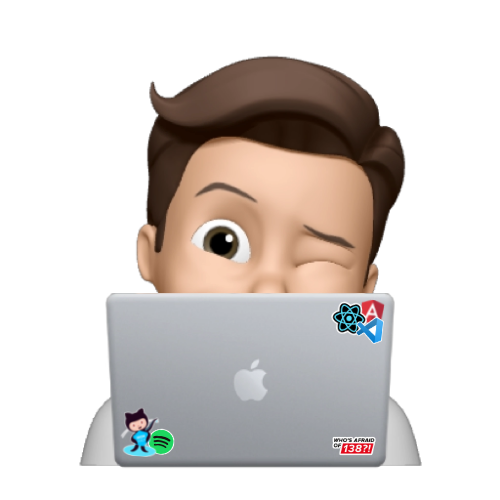
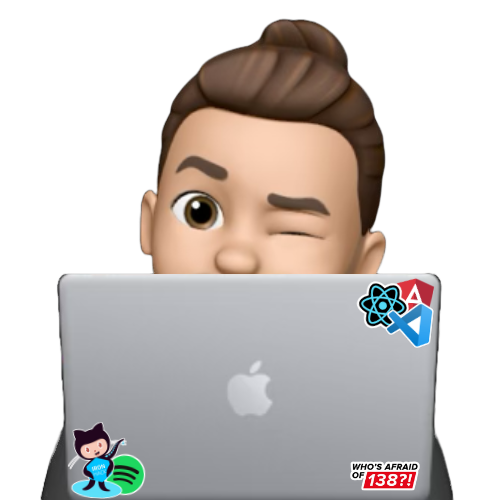
memoji update

diff --git a/components/About.js b/components/About.js
@@ -1,7 +1,9 @@
 import React, { Fragment } from "react";
+import Image from 'next/image'
 import router, { useRouter } from "next/router";
 import styled from "styled-components";
 import { mixins, media } from '../styles';
+import memoji from '../styles/assets/memoji.png'
 
 import en from "../locales/en";
 import es from "../locales/es";
@@ -94,9 +96,9 @@ const About = ({}) => {
         <div className="__HeroContent">
           <div className="__Wrapper">
             <div className="__MemojiContainer">
-              {/* <div className="__Memoji">
-                <Image src={memoji} alt="memoji image"></Image>
-              </div> */}
+              <div className="__Memoji">
+                <Image src={memoji} width={300} height={300} alt="memoji image"></Image>
+              </div>
               <div>
                 <h1 className='__Title'>{t.title}</h1>
                 <h2 className='__Subtitle'>{t.subtitle}</h2>
